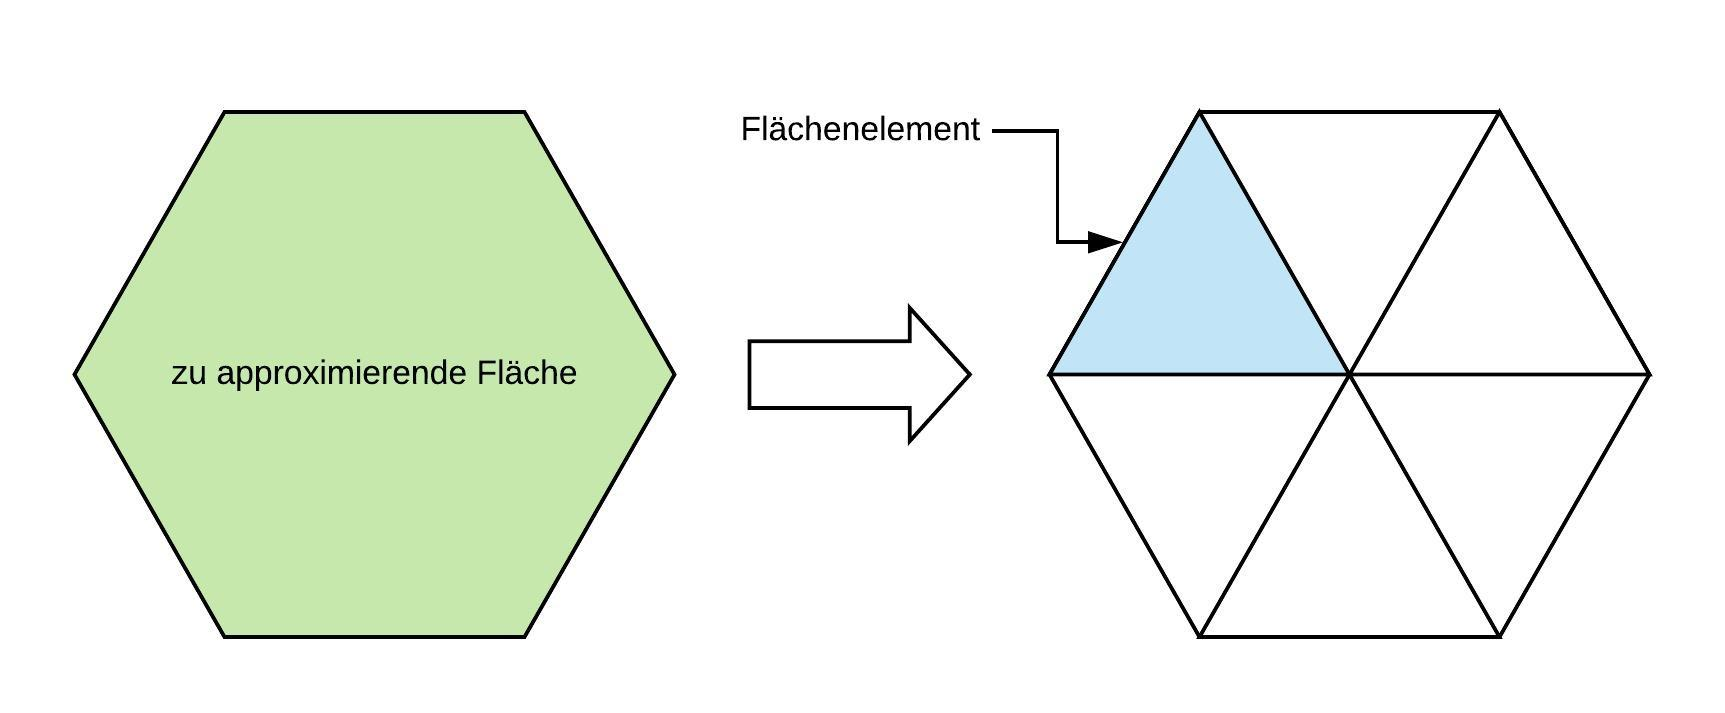
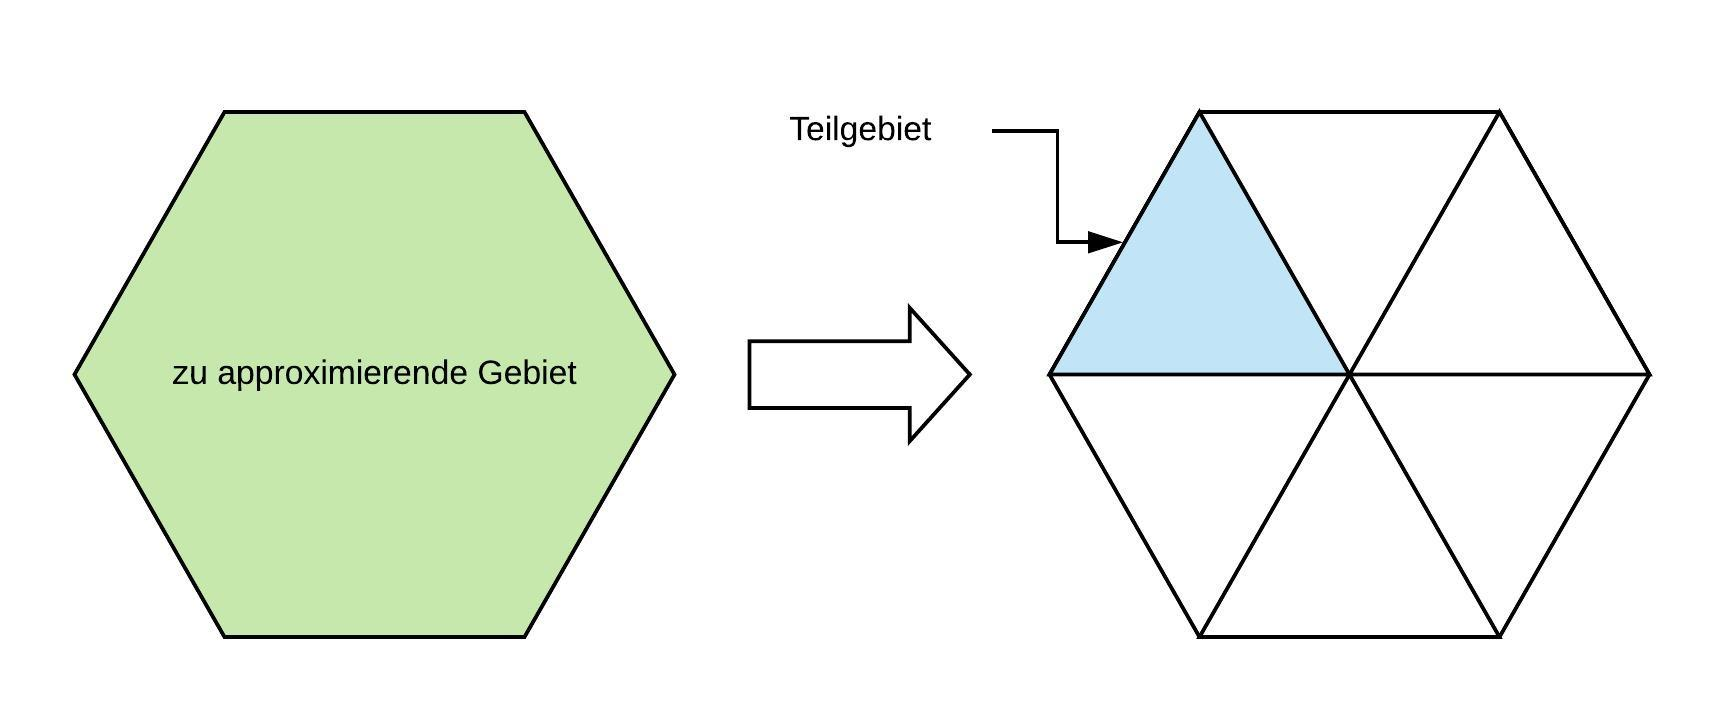
Bild Dreiecl, Achsenbeschriftung, Fo Update, Bild Teilgebiet update

Changed region(s): [[0.0922, 0.4937, 0.338, 0.5554], [0.4301, 0.1543, 0.5838, 0.216]]

diff --git a/buch/papers/fem/loesung.tex b/buch/papers/fem/loesung.tex
@@ -6,8 +6,8 @@
 \section{Lösung
 \label{fem:section:loesung}}
 \rhead{Lösung}
-Um eine gute Lösung für die DGL in der Ebene zu finden wird das Gesamte Gebiet in Teilgebiet unterteilt und auf jedes Teilgebiet wird eine Approximationsfunktion mit der sogennanten Ansatzfunktion angewendet (siehe Bild \ref{fem:Approx}).\\
-In diesem Kapitel wird der Begriff Ansatzfunktion verwendet, der bis anhin nicht verwendet wurde. Unter Ansatzfunktion wird eine Funktion verstanden, die frei wählbar ist und unbekannte Koeffizienten enthalten, welche berechnet werden sollen. Diese gewählte Ansatzfunktion gibt somit den Freiheitsgrad vor. Nicht jede Funktion kann verwendet werden, dass es auch hier Randbedingungen gibt, die Beachtet und erfüllt werden müssen. Je höher die Ordnung der Ansatzfunktion desto besser soll die Approximation an den rändern sein. So die Hoffnung. Allerdings hat dies auch Konsequenzen, die im Verlauf dieses Kapitels beschrieben werden. \\
+Um eine gute Lösung für die DGL in der Ebene zu finden wird das gesamte Gebiet in Teilgebiet unterteilt und auf jedes Teilgebiet wird eine Approximationsfunktion mit der sogennanten Ansatzfunktion angewendet (siehe Bild \ref{fem:Approx}).\\
+In diesem Kapitel wird der Begriff Ansatzfunktion verwendet, der bis anhin nicht verwendet wurde. Unter Ansatzfunktion wird eine Funktion verstanden, die frei wählbar ist und unbekannte Koeffizienten enthalten, welche berechnet werden sollen. Diese gewählte Ansatzfunktion gibt somit den Freiheitsgrad vor. Nicht jede Funktion kann verwendet werden, dass es auch hier Randbedingungen gibt, die beachtet und erfüllt werden müssen. Je höher die Ordnung der Ansatzfunktion desto besser soll die Approximation an den rändern sein. So die Hoffnung. Allerdings hat dies auch Konsequenzen, die im Verlauf dieses Kapitels beschrieben werden. \\
 
 \begin{figure}[h!]
 	\centering
@@ -28,17 +28,18 @@ Um möglichst einfach darzustellen, wie das Verfahren der Finiten Elemente vonst
 
 \subsection{Vorbereitung}
 
-Damit die Integration über das gewählte Flächenelement Dreieck oder Parallelogramm einfacher fällt, wird als Vorbereitung im entsprechenden Fall das gewählte Flächenelement in ein Einheitsdreieck oder in ein Eineheitsparallelogramm transformiert. Dies bringt auch den Vorteil, dass die gewählten Formfunktionen gleich behandelt werden können. \\
-Das allgemeine Dreieck in allgemeiner Lage mit den Eckpunkten $P_1(x_1, y_1$), $ P_2(x_2, y_2)$ und $P3(x_3,y_3)$ kann mit Hilfe der linearen Transformation \ref{fem:linTransformation} 
+Damit die Integration über das gewählte Teilgebiet bzw. Flächenelement einfacher fällt, wird als Vorbereitung im entsprechenden Fall das gewählte Flächenelement in ein Einheitsdreieck oder in ein Eineheitsparallelogramm transformiert. Ein Dreieck oder Parallelogramm stellt eine Formfunktion dar, über die die gewählte Fläche bzw. Teilgebiet berechnet werden kann. Die gewählte Formfunktion eines Teilgebietes z.B. integrieren des Gebietes über ein Dreieck oder Pallelogramm,  bringt auch den Vorteil, dass die gewählten Formfunktionen gleich behandelt werden können. \\
+Das allgemeine Dreieck in allgemeiner Lage mit den Eckpunkten $P_1(x_1, y_1$), $ P_2(x_2, y_2)$ und $P3(x_3,y_3)$ kann mit Hilfe der linearen Transformation \eqref{fem:linTransformation}
 
 \begin{equation}
-			\begin{aligned}
-			x = x_1 + (x_2 - x_1)\xi + (x_3 - X_1)\eta \\
-			y = y_1 + (y_2 - y_1)\xi + (y_3 - y_1)\eta
-			 \end{aligned}
-			\label{fem:linTransformation}
+	\begin{split}
+		x = x_1 + (x_2 - x_1)\xi + (x_3 - X_1)\eta \\
+		y = y_1 + (y_2 - y_1)\xi + (y_3 - y_1)\eta
+		\label{fem:linTransformation}
+	\end{split}
 \end{equation}
-in das einfachere Gebietsintegral nämlich dem gleichschenklig rechtwinklige Einheitsdreieck mit Kathetenlänge 1 überführt werden.
+in das einfachere Gebiet nämlich dem gleichschenklig rechtwinklige Einheitsdreieck mit Kathetenlänge 1 überführt werden.
+
 
 \begin{figure}[h!]
 	\centering
@@ -46,35 +47,51 @@ in das einfachere Gebietsintegral nämlich dem gleichschenklig rechtwinklige Ein
 	\caption{Transformation in ein Einheitsdreieck}
 	\label{fig:schemNMR_vorlage}
 \end{figure}
-Die Transformation soll untern den elementaren Regeln der Analysis vorgenommen werden. Nun ist das Flächenelement $dx \, dy$ mit Hilfe der Jacobi Determinante \ref{fem:JocobiDeterminante} der Transformation zu ersetzen durch \ref{fem:newTransformation}.
+Die Transformation soll untern den elementaren Regeln der Analysis vorgenommen werden. Nun ist das Flächenelement $dx \, dy$ mit Hilfe der Jacobi Determinante \eqref{fem:JocobiDeterminante} der Transformation zu ersetzen durch \eqref{fem:newTransformation}.
 
 \begin{equation}
-			J = \left[ \begin{array}{rr}
-\frac{\partial x}{\partial \xi} & \frac{\partial y}{\partial \xi}  \\
-\frac{\partial x}{\partial \eta} & \frac{\partial y}{\partial \eta}  \\
-\end{array}\right] 
-			\label{fem:JocobiDeterminante}
+J % 
+=
+\begin{bmatrix}
+    \frac{\partial x}{\partial \xi} &  \frac{\partial x}{\partial \eta}     \\
+   \frac{\partial y}{\partial \xi}  &  \frac{\partial y}{\partial \eta}     
+\end{bmatrix}
+= 
+\begin{bmatrix}
+    x_2 - x_1  &  x_3 -x_1      \\
+    y_2 - y_1  &  y_3 - y_1      
+\end{bmatrix} 
+	\label{fem:JocobiDeterminante}
 \end{equation}
-
+Die Determinante dieser Jacobi- Matrix ergibt
 \begin{equation}
-			dy \, dy = J \, d\xi \, d\eta
+	det(J) = x_1 \cdot y_2 - 2 \cdot x_1 \cdot y_1 + x_2 \cdot y_1 + x_1\cdot y_3 + x_3 \cdot y_1 - x_2 \cdot y_3 - x_3 \cdot y_2
+	\label{fem:JocobiDetBerechnet}
+\end{equation}
+\begin{equation}
+			dy \, dy = det(J) \, d\xi \, d\eta
 			\label{fem:newTransformation}
 \end{equation}
 Die Jacobi- Determinante entspricht der doppelten Fläche des Dreiecks. Die partiellen Ableitungen werden gemäss der Kettenregel zu 
-
+%\begin{equation}
+%			\begin{aligned}
+%			u_x = u_{\xi} \xi_x + u_{\eta} \eta_x \\
+%			u_y = u_{\xi} \xi_y + u_{\eta} \eta_y 
+% 			\end{aligned}
+%			\label{fem:newKoordinate}
+%\end{equation}
 \begin{equation}
-			\begin{aligned}
-			u_x = u_{\xi} \xi_x + u_{\eta} \eta_x \\
-			u_y = u_{\xi} \xi_y + u_{\eta} \eta_y 
-			\end{aligned}
-			\label{fem:newKoordinate}
+\begin{split}
+	\frac{\partial u}{\partial x} = \frac{\partial u}{\partial \xi} \, \frac{\partial \xi}{\partial x} + \frac{\partial u}{\partial \eta} \, \frac{\partial \eta}{\partial x} \\
+	\frac{\partial u}{\partial y} = \frac{\partial u}{\partial \xi} \, \frac{\partial \xi}{\partial y} + \frac{\partial u}{\partial \eta} \, \frac{\partial \eta}{\partial y}
+	\end{split}
 \end{equation}
-Auf Grund der linearen Transformation \ref{fem:linTransformation} ergeben sich nach der partieller Differentiation der Beiden Beziehungen nach $x$ zu nächst
+Auf Grund der linearen Transformation \eqref{fem:linTransformation} ergeben sich nach der partieller Differentiation der beiden Beziehungen nach $x$ zunächst
 
 \begin{equation}
 			\begin{aligned}
-			1  = (x_2 -x_1) \eta_x + (x_3 -x_1) \eta_x \\
-			0 = (y_2 -y_1) \eta_x + (y_3 -y_1) \eta_x \\
+			1  = (x_2 -x_1) \, \eta_x + (x_3 -x_1) \, \eta_x \\
+			0 = (y_2 -y_1) \, \eta_x + (y_3 -y_1) \, \eta_x \\
 			 \end{aligned}
 \end{equation}
 Nach Auflösung  der beiden Gleichungen nach $\xi_x$ und $\eta_x$ ergibt sich
@@ -85,7 +102,7 @@ Nach Auflösung  der beiden Gleichungen nach $\xi_x$ und $\eta_x$ ergibt sich
 Analog nach der partiellen Ableitung nach $y$ erhält man
 
 \begin{equation}
-			\xi_x = \frac{x_3 - x_1}{J} \quad \eta_x = -\frac{x_2 - x_1}{J}
+			\xi_y = \frac{x_3 - x_1}{J} \quad \eta_y = -\frac{x_2 - x_1}{J}
 \end{equation}
 
 \subsection{Schritt 1 Minimalproblem bilden}

diff --git a/buch/papers/fem/problemstellung.tex b/buch/papers/fem/problemstellung.tex
@@ -7,27 +7,25 @@
 \label{fem:section:problemstellung}}
 \rhead{Problemstellung}
 
-Um eine Lösung für das Problem zu finden in der Ebene
+Um eine Lösung für das Differentialgleichung (DGL) Problem in der Ebene zu finden, wird diese Ebene bzw. die Fläche mit Hilfe einer Ansatzfunktion approximiert. Unter Ansatzfunktion wird eine Funktion verstanden, die frei wählbar ist und unbekannte Koeffizienten enthält, welche berechnet werden sollen. Diese gewählte Ansatzfunktion gibt somit den Freiheitsgrad vor. Je höher die Ordnung der Ansatzfunktion desto besser soll die Approximation werden. So die Hoffnung. Allerdings hat dies auch Konsequenzen, die im Verlauf dieses Kapitels beschrieben werden. Nicht jede Funktion kann verwendet werden. Denn es  gilt auch hier Randbedingungen zu berücksichtigen und zu erfüllen. 
 
-In diesem Kapitel wird der Begriff Ansatzfunktion verwendet, der bis anhin nicht verwendet wurde. Unter Ansatzfunktion wird eine Funktion verstanden, die frei wählbar ist und unbekannte Koeffizienten enthalten, welche berechnet werden sollen. Diese gewählte Ansatzfunktion gibt somit den Freiheitsgrad vor. Je höher die Ordnung der Ansatzfunktion desto besser soll die Approximation werden. So die Hoffnung. Allerdings hat dies auch Konsequenzen, die im Verlauf dieses Kapitels beschrieben werden. Nicht jede Funktion kann verwendet werden, dass es auch hier Randbedingungen gibt, die Beachtet und erfüllt werden müssen.
-
-Wie bereits beschrieben im Kapitel xXx kann eine Differentialgleichung (DGL) in ein äquvalentes Minimalproblem übersetzt werden. Die DGL in der Ebene hat allerdings zu der DGL im eindimensionalen Raum die Form:
+Wie bereits beschrieben im Kapitel xXx kann eine DGL in ein äquvalentes Minimalproblem übersetzt werden. Die DGL in der Ebene hat allerdings zu der DGL im eindimensionalen Raum die Form:
 
 \begin{equation}
 	\Delta u = \lambda u
 	\label{fem:DGL2D}
 \end{equation} 
-während der Laplace Operato die 2. Ableitungen nach den beiden Variablen darstellt.
+während der Laplace Operator die 2. Ableitungen nach den beiden Variablen darstellt.
 
 \begin{equation}
 	\Delta = \frac{\partial ^2}{\partial x^2} + \frac{\partial ^2}{\partial y^2}
 \end{equation} 
 Daraus lässt sich erkennen, dass sich die Vorgehensweise angepasst werden muss, da zweifache Differenzierbarkeit gefordert ist. Der Vorteil liegt jedoch auch darin, dass sobald die Erkenntnis für die zusätzliche Dimension gewonnen wurde, analog für weitere Dimensionen einsetzen lässt.
 
-Hinzu kommt noch die Randbedingungen der DGL erfüllt sein müssen die da lauten:
+Hinzu kommt dann noch die Randbedingungen der DGL die erfüllt werden müssen die da lauten:
 \begin{itemize}
 	\item 1. stetig differenzierbar in den Stützstellen (Steigung)
-	\item 2. stetig differenzierbar an den übergängen der Elementen (Krümmung)
+	\item 2. stetig differenzierbar an den Übergängen an den Rändern eines Elements zum anliegenden Rand eines benachbarten Elements. (Krümmung)
 \end{itemize}
 %Poisson-Gleichung:
 
@@ -77,17 +75,17 @@ Die Methoder der Finiten Elemente in der Ebene haben zum einen die Herausforderu
 \end{equation}
 Die zweite Herausforderunge besteht darin, dass in der Ebene die Wahl des Flächenelements gegeben ist, um die gewünschte Fläche zu approximieren. Jenach dem kann mit einem Dreieck oder einem Parallelogramm die Fläche approximiert werden. Ein Kreis wäre auch denkbar, allerdings ist der Gewinn im Verhältniss zum Rechenaufwand nicht gerechtfertig. Da es verschiedene Dreieck- Arten gibt sowie auch Parallelogramme, wird in xXx auch eine Lösung aufgezeigt wie mit Hilfe einer Transformation des Flächenelements in ein weniger aufwändigere berechenbare Flächenelement überführt werden kann.
 
-\subsection{De finibus bonorum et malorum
-\label{fem:subsection:finibus}}
+%\subsection{De finibus bonorum et malorum
+%\label{fem:subsection:finibus}}
 
-\begin{equation}
-\int_a^b x^2\, dx
-=
-\left[ \frac13 x^3 \right]_a^b
-=
-\frac{b^3-a^3}3.
-\label{fem:equation1}
-\end{equation}
+%\begin{equation}
+%\int_a^b x^2\, dx
+%=
+%\left[ \frac13 x^3 \right]_a^b
+%=
+%\frac{b^3-a^3}3.
+%\label{fem:equation1}
+%\end{equation}
 
 
 

diff --git a/buch/papers/fem/main.tex b/buch/papers/fem/main.tex
@@ -8,25 +8,6 @@
 \begin{refsection}
 \chapterauthor{Joël Rechsteiner}
 
-Ein paar Hinweise für die korrekte Formatierung des Textes
-\begin{itemize}
-\item
-Absätze werden gebildet, indem man eine Leerzeile einfügt.
-Die Verwendung von \verb+\\+ ist nur in Tabellen und Arrays gestattet.
-\item
-Die explizite Platzierung von Bildern ist nicht erlaubt, entsprechende
-Optionen werden gelöscht. 
-Verwenden Sie Labels und Verweise, um auf Bilder hinzuweisen.
-\item
-Beginnen Sie jeden Satz auf einer neuen Zeile. 
-Damit ermöglichen Sie dem Versionsverwaltungssysteme, Änderungen
-in verschiedenen Sätzen von verschiedenen Autoren ohne Konflikt 
-anzuwenden.
-\item 
-Bilden Sie auch für Formeln kurze Zeilen, einerseits der besseren
-Übersicht wegen, aber auch um GIT die Arbeit zu erleichtern.
-\end{itemize}
-
 \input{papers/fem/einleitung.tex}
 \input{papers/fem/problemstellung.tex}
 \input{papers/fem/loesung.tex}
